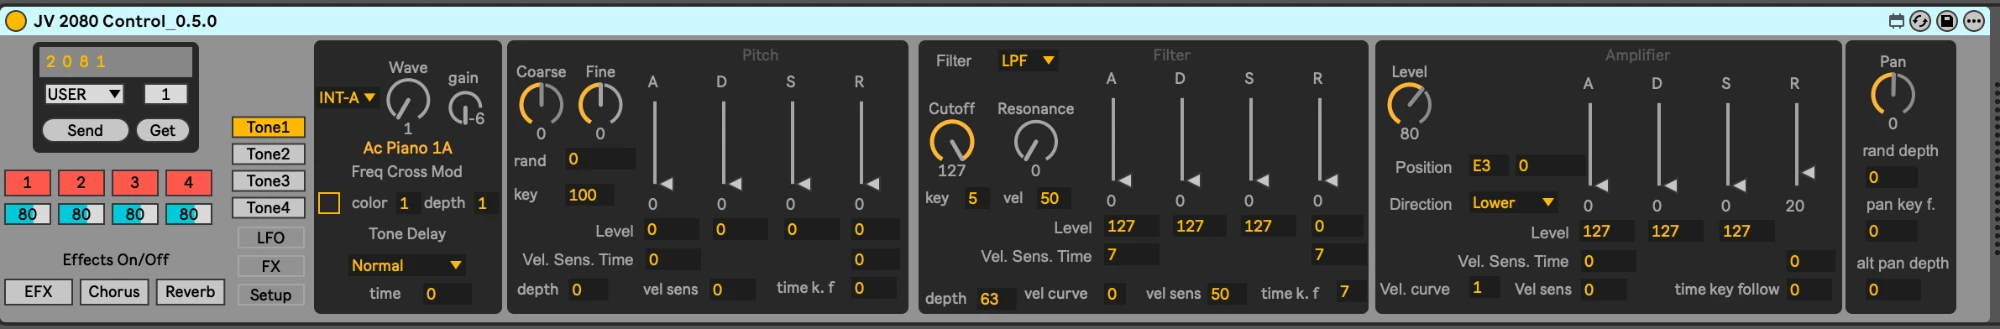
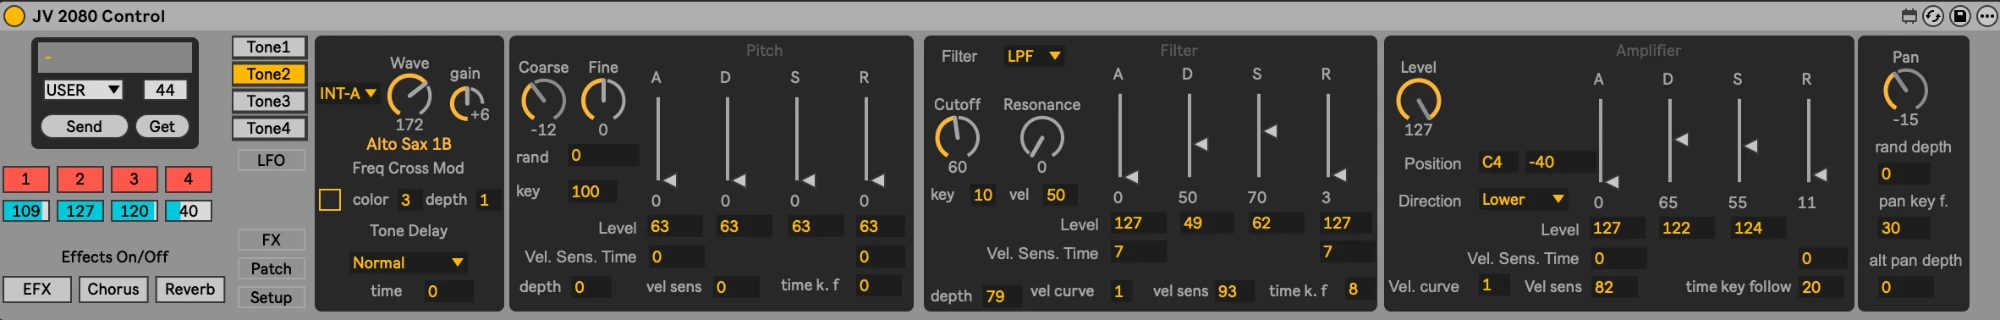
README: screenshots with the new button column and the Patch page (#59)

diff --git a/README.md b/README.md
@@ -125,6 +125,8 @@ On/Off* still switch the whole unit's effects on and off.
 
 ### Patch page
 
+![The Patch page](docs/patch.webp)
+
 Click **Patch** (below the Tone tabs) for the settings of the whole patch:
 
 - **Patch / Mode / Portamento**: level, pan, octave shift, bend range up/down, analog feel, stretch tune; key assign
